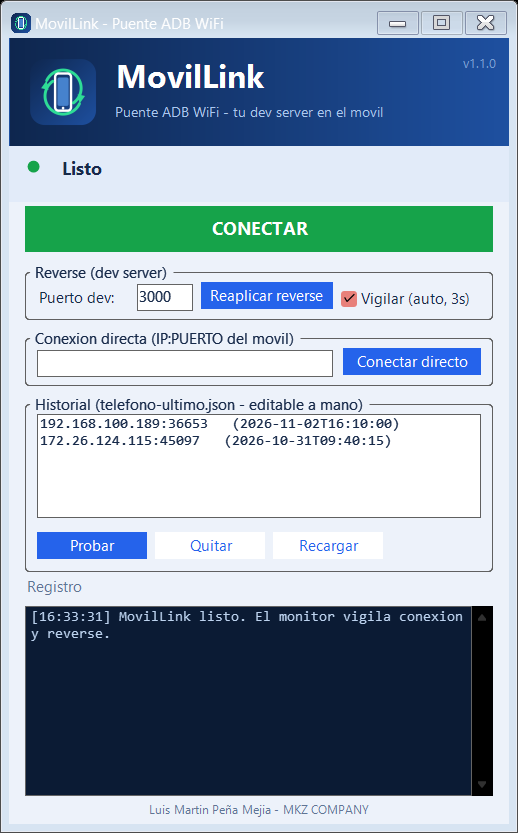
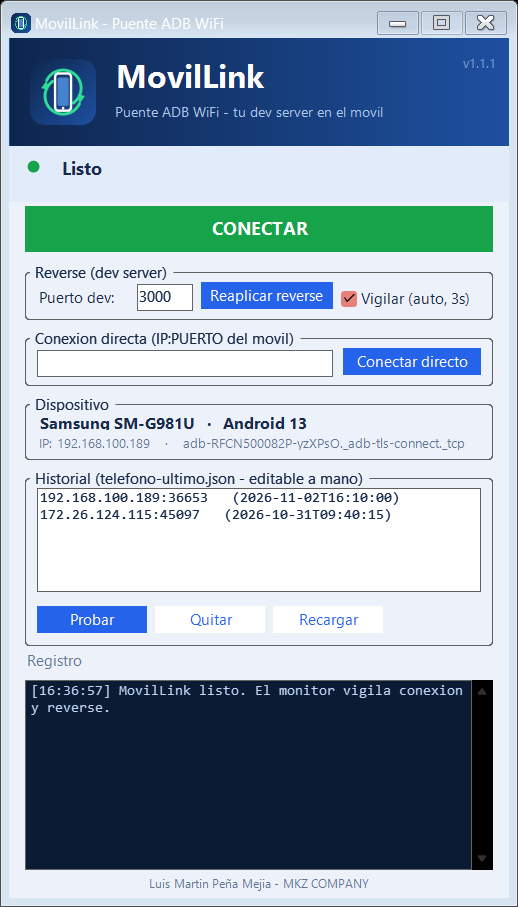
MOVILLINK v1.2.0: TARJETA DE DISPOSITIVO + PAQUETE NUGET EN GITHUB PACKAGES
ARCHIVOS: APP/Interfaz/MovilLink.UI.ps1, MovilLink.nuspec, .github/workflows/paquete.yml, README.md, CHANGELOG.md, APP/Recursos/captura.png
- Nueva seccion "Dispositivo": nombre real (marca+modelo via getprop), Android, IP y serial con tooltip
- Ficha cacheada por serial — cero shells adb extra por tick del monitor
- CI: workflow publica el .nupkg en GitHub Packages en cada release

ESTADO: COMPLETADO
FECHA: lunes 2 de noviembre de 2026, 16:40
AUTOR: MKZ COMPANY

Changed region(s): [[0.0, 0.0, 0.9884, 0.593], [0.0309, 0.6242, 0.9575, 0.7803], [0.0618, 0.9364, 0.9575, 0.9988]]

diff --git a/README.md b/README.md
@@ -6,7 +6,7 @@
 ![PowerShell](https://img.shields.io/badge/PowerShell-5.1+-5391FE?style=flat-square&logo=powershell&logoColor=white)
 ![ADB](https://img.shields.io/badge/ADB-WiFi%20(TLS)-1E7A3C?style=flat-square&logo=android&logoColor=white)
 ![Licencia](https://img.shields.io/badge/Licencia-MIT-yellow?style=flat-square)
-![Versión](https://img.shields.io/badge/v1.1.1-release-185E30?style=flat-square)
+![Versión](https://img.shields.io/badge/v1.2.0-release-185E30?style=flat-square)
 ![Hecho en RD](https://img.shields.io/badge/Hecho%20en-Rep%C3%BAblica%20Dominicana%20%F0%9F%87%A9%F0%9F%87%B4-CE1126?style=flat-square)
 
 </div>
@@ -32,7 +32,8 @@ pestaña.
 
 | Vía | Enlace | Para quién |
 |---|---|---|
-| **Release ZIP** | [MovilLink-v1.1.1.zip](https://github.com/luismartin023/movillink/releases/latest) | Todos — la forma recomendada |
+| **Release ZIP** | [MovilLink-v1.2.0.zip](https://github.com/luismartin023/movillink/releases/latest) | Todos — la forma recomendada |
+| **NuGet** | [MovilLink en GitHub Packages](https://github.com/luismartin023/movillink/pkgs/nuget/MovilLink) | `dotnet add package MovilLink` |
 | Code → Download ZIP | Este repo | Si quieres el código fuente completo |
 
 ## Necesarios

diff --git a/CHANGELOG.md b/CHANGELOG.md
@@ -1,5 +1,15 @@
 # CHANGELOG — MovilLink
 
+## v1.2.0 — 2026-11-02
+
+Tarjeta de dispositivo:
+
+- Nueva seccion **"Dispositivo"** con la ficha del movil conectado:
+  nombre real (marca + modelo via `getprop`), version de Android,
+  IP resuelta por `ip route` y serial completo con tooltip.
+- Cacheada por serial — no lanza shells adb en cada tick del monitor;
+  se reconsulta solo al cambiar de telefono.
+
 ## v1.1.1 — 2026-11-02
 
 Pulido visual:
